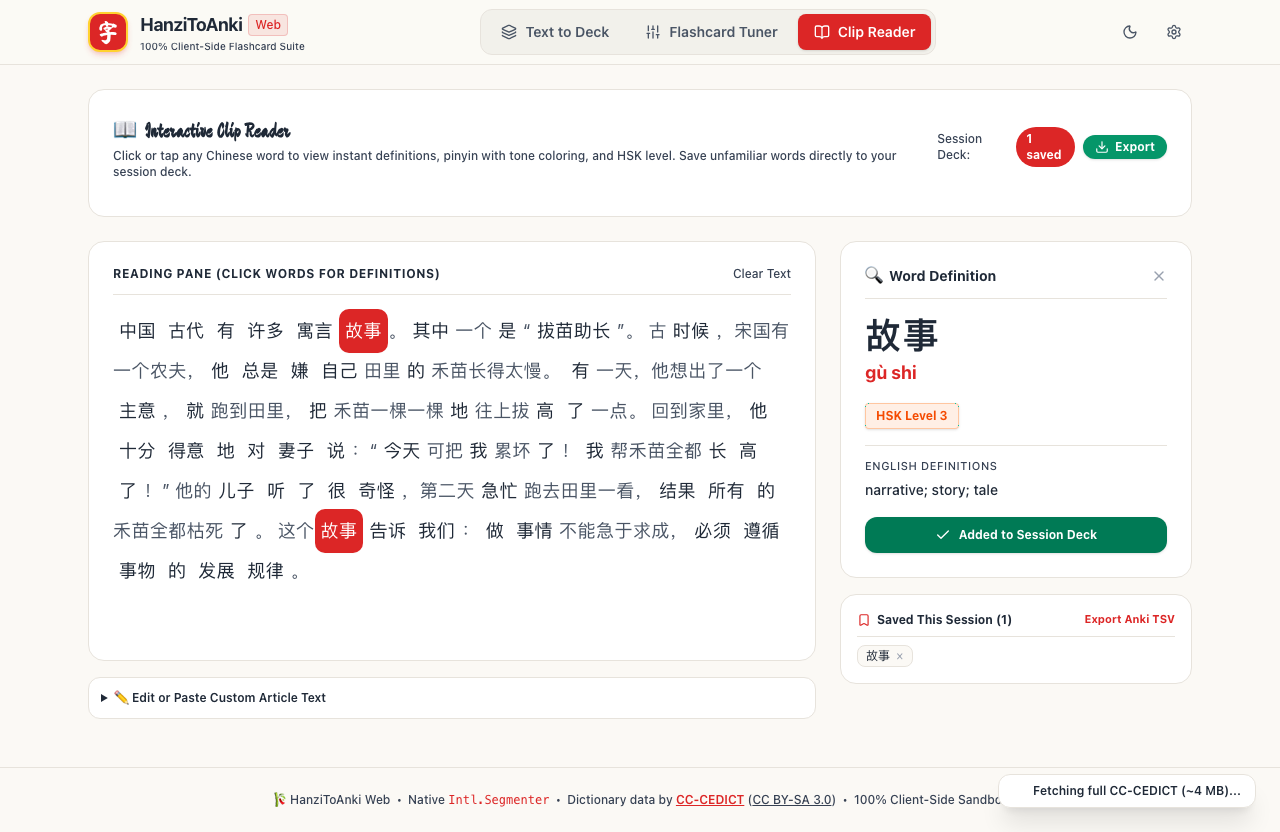
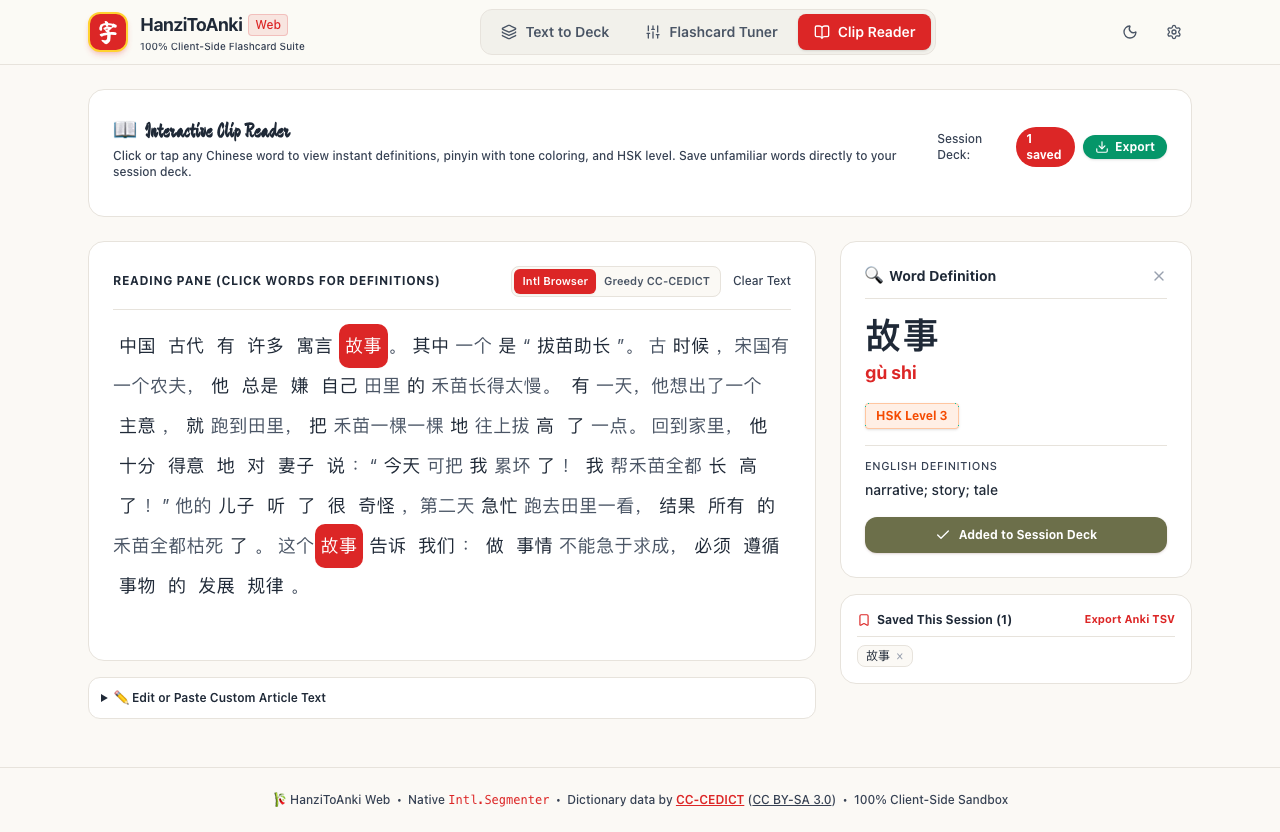
feat(web): add Jieba-like CC-CEDICT segmentation mode toggle in Clip Reader

Changed region(s): [[0.0938, 0.3125, 0.625, 0.7188], [0.6562, 0.5938, 0.9375, 0.6875], [0.7812, 0.9375, 0.9688, 1.0]]

diff --git a/web/src/lib/segmentation.ts b/web/src/lib/segmentation.ts
@@ -1,5 +1,7 @@
 import { type DictEntry, dictionaryService } from './dictionary';
 
+export type SegmentationMode = 'intl' | 'cedict-greedy';
+
 export interface SegmentedWord {
   text: string;
   isChinese: boolean;
@@ -18,12 +20,92 @@ export function isPureHanzi(str: string): boolean {
 }
 
 /**
- * Tokenizes text into words using native browser Intl.Segmenter.
+ * Bi-directional Maximum Matching (BiMM) segmenter using in-memory CC-CEDICT vocabulary.
+ * Produces compound/greedy words (Jieba-like) without large external binary dependencies.
+ */
+export function segmentCedictGreedy(text: string, maxWordLen = 8): string[] {
+  if (!text) return [];
+
+  // Break text into Hanzi and non-Hanzi segments (preserving punctuation, spaces, etc.)
+  const chunks = text.match(/[\u4e00-\u9fa5]+|[^\u4e00-\u9fa5]+/g) || [];
+  const result: string[] = [];
+
+  for (const chunk of chunks) {
+    if (!isHanzi(chunk)) {
+      result.push(chunk);
+      continue;
+    }
+
+    // Forward Maximum Matching (FMM)
+    const fmm: string[] = [];
+    let i = 0;
+    while (i < chunk.length) {
+      let matched = false;
+      for (let len = Math.min(maxWordLen, chunk.length - i); len > 1; len--) {
+        const sub = chunk.slice(i, i + len);
+        if (dictionaryService.lookup(sub)) {
+          fmm.push(sub);
+          i += len;
+          matched = true;
+          break;
+        }
+      }
+      if (!matched) {
+        fmm.push(chunk[i]);
+        i++;
+      }
+    }
+
+    // Reverse Maximum Matching (RMM)
+    const rmm: string[] = [];
+    let j = chunk.length;
+    while (j > 0) {
+      let matched = false;
+      for (let len = Math.min(maxWordLen, j); len > 1; len--) {
+        const sub = chunk.slice(j - len, j);
+        if (dictionaryService.lookup(sub)) {
+          rmm.unshift(sub);
+          j -= len;
+          matched = true;
+          break;
+        }
+      }
+      if (!matched) {
+        rmm.unshift(chunk[j - 1]);
+        j--;
+      }
+    }
+
+    // Disambiguation between FMM and RMM:
+    // 1. Prefer tokenization with fewer total tokens
+    // 2. If equal, prefer tokenization with fewer single-character tokens
+    if (fmm.length < rmm.length) {
+      result.push(...fmm);
+    } else if (rmm.length < fmm.length) {
+      result.push(...rmm);
+    } else {
+      const fmmSingles = fmm.filter((w) => w.length === 1).length;
+      const rmmSingles = rmm.filter((w) => w.length === 1).length;
+      if (rmmSingles < fmmSingles) {
+        result.push(...rmm);
+      } else {
+        result.push(...fmm);
+      }
+    }
+  }
+
+  return result;
+}
+
+/**
+ * Tokenizes text into words using either browser native Intl.Segmenter
+ * or dictionary-driven CC-CEDICT Bi-directional Maximum Matching (Jieba-like).
  * Matches CC-CEDICT definitions and HSK levels.
  */
 export function segmentText(
   text: string,
   options: {
+    mode?: SegmentationMode;
     deconstructWords?: boolean; // also include individual single characters of multi-char words
     excludeHskMax?: number; // exclude words with HSK <= excludeHskMax (e.g. exclude 1..3)
   } = {},
@@ -31,71 +113,59 @@ export function segmentText(
   if (!text) return [];
 
   const results: SegmentedWord[] = [];
+  const mode = options.mode ?? 'intl';
   const deconstruct = options.deconstructWords ?? false;
   const excludeMax = options.excludeHskMax ?? 0;
 
-  // Use native Intl.Segmenter if available, otherwise regex fallback
-  if (typeof Intl !== 'undefined' && 'Segmenter' in Intl) {
+  let rawTokens: string[] = [];
+
+  if (mode === 'cedict-greedy') {
+    rawTokens = segmentCedictGreedy(text);
+  } else if (typeof Intl !== 'undefined' && 'Segmenter' in Intl) {
     const segmenter = new Intl.Segmenter('zh', { granularity: 'word' });
-    const segments = segmenter.segment(text);
+    rawTokens = Array.from(segmenter.segment(text)).map((s) => s.segment);
+  } else {
+    // Regex fallback
+    rawTokens = text.match(/[\u4e00-\u9fa5]+|[^\u4e00-\u9fa5\s]+/g) || [];
+  }
 
-    for (const seg of segments) {
-      const rawText = seg.segment.trim();
-      if (!rawText) continue;
+  for (const rawToken of rawTokens) {
+    const rawText = rawToken.trim();
+    if (!rawText) continue;
 
-      const isChinese = isHanzi(rawText);
-      const dictEntry = isChinese ? dictionaryService.lookup(rawText) : null;
-      const hskLevel = isChinese
-        ? dictEntry?.hskLevel || dictionaryService.getHskLevel(rawText)
-        : 0;
+    const isChinese = isHanzi(rawText);
+    const dictEntry = isChinese ? dictionaryService.lookup(rawText) : null;
+    const hskLevel = isChinese ? dictEntry?.hskLevel || dictionaryService.getHskLevel(rawText) : 0;
 
-      // Check HSK exclusion filter
-      if (isChinese && excludeMax > 0 && hskLevel > 0 && hskLevel <= excludeMax) {
-        continue;
-      }
+    // Check HSK exclusion filter
+    if (isChinese && excludeMax > 0 && hskLevel > 0 && hskLevel <= excludeMax) {
+      continue;
+    }
 
-      results.push({
-        text: rawText,
-        isChinese,
-        dictEntry,
-        hskLevel,
-      });
+    results.push({
+      text: rawText,
+      isChinese,
+      dictEntry,
+      hskLevel,
+    });
 
-      // Optionally break down multi-character words into sub-characters
-      if (deconstruct && isChinese && rawText.length > 1) {
-        for (const char of rawText) {
-          if (isPureHanzi(char)) {
-            const charEntry = dictionaryService.lookup(char);
-            const charHsk = charEntry?.hskLevel || dictionaryService.getHskLevel(char);
-            if (excludeMax > 0 && charHsk > 0 && charHsk <= excludeMax) {
-              continue;
-            }
-            results.push({
-              text: char,
-              isChinese: true,
-              dictEntry: charEntry,
-              hskLevel: charHsk,
-            });
+    // Optionally break down multi-character words into sub-characters
+    if (deconstruct && isChinese && rawText.length > 1) {
+      for (const char of rawText) {
+        if (isPureHanzi(char)) {
+          const charEntry = dictionaryService.lookup(char);
+          const charHsk = charEntry?.hskLevel || dictionaryService.getHskLevel(char);
+          if (excludeMax > 0 && charHsk > 0 && charHsk <= excludeMax) {
+            continue;
           }
+          results.push({
+            text: char,
+            isChinese: true,
+            dictEntry: charEntry,
+            hskLevel: charHsk,
+          });
         }
       }
-    }
-  } else {
-    // Basic regex fallback
-    const tokens = text.match(/[\u4e00-\u9fa5]+|[^\u4e00-\u9fa5\s]+/g) || [];
-    for (const token of tokens) {
-      const isChinese = isHanzi(token);
-      const dictEntry = isChinese ? dictionaryService.lookup(token) : null;
-      const hskLevel = isChinese ? dictEntry?.hskLevel || dictionaryService.getHskLevel(token) : 0;
-      if (isChinese && excludeMax > 0 && hskLevel > 0 && hskLevel <= excludeMax) {
-        continue;
-      }
-      results.push({
-        text: token,
-        isChinese,
-        dictEntry,
-        hskLevel,
-      });
     }
   }
 
@@ -106,47 +176,28 @@ export function segmentText(
  * Tokenizes text specifically for the interactive Reader view,
  * keeping punctuation, spacing, and newlines intact for rendering paragraphs.
  */
-export function tokenizeForReader(text: string): SegmentedWord[] {
+export function tokenizeForReader(text: string, mode: SegmentationMode = 'intl'): SegmentedWord[] {
   if (!text) return [];
 
-  const segmenter =
-    typeof Intl !== 'undefined' && 'Segmenter' in Intl
-      ? new Intl.Segmenter('zh', { granularity: 'word' })
-      : null;
+  let rawTokens: string[] = [];
 
-  if (segmenter) {
-    const segments = segmenter.segment(text);
-    const tokens: SegmentedWord[] = [];
-    for (const seg of segments) {
-      const segText = seg.segment;
-      const isChinese = isHanzi(segText);
-      const dictEntry = isChinese ? dictionaryService.lookup(segText) : null;
-      const hskLevel = isChinese
-        ? dictEntry?.hskLevel || dictionaryService.getHskLevel(segText)
-        : 0;
-
-      tokens.push({
-        text: segText,
-        isChinese,
-        dictEntry,
-        hskLevel,
-      });
-    }
-    return tokens;
+  if (mode === 'cedict-greedy') {
+    rawTokens = segmentCedictGreedy(text);
+  } else if (typeof Intl !== 'undefined' && 'Segmenter' in Intl) {
+    const segmenter = new Intl.Segmenter('zh', { granularity: 'word' });
+    rawTokens = Array.from(segmenter.segment(text)).map((s) => s.segment);
+  } else {
+    rawTokens = text.split(/([ \t\r\n]+|[\u4e00-\u9fa5]+|[^\u4e00-\u9fa5\s]+)/g).filter(Boolean);
   }
 
-  // Fallback
-  return text
-    .split(/([ \t\r\n]+|[\u4e00-\u9fa5]+|[^\u4e00-\u9fa5\s]+)/g)
-    .filter(Boolean)
-    .map((part) => {
-      const isChinese = isHanzi(part);
-      const dictEntry = isChinese ? dictionaryService.lookup(part) : null;
-      return {
-        text: part,
-        isChinese,
-        dictEntry,
-        hskLevel: isChinese ? dictEntry?.hskLevel || dictionaryService.getHskLevel(part) : 0,
-      };
-    });
+  return rawTokens.map((part) => {
+    const isChinese = isHanzi(part);
+    const dictEntry = isChinese ? dictionaryService.lookup(part) : null;
+    return {
+      text: part,
+      isChinese,
+      dictEntry,
+      hskLevel: isChinese ? dictEntry?.hskLevel || dictionaryService.getHskLevel(part) : 0,
+    };
+  });
 }

diff --git a/web/src/components/ClipboardReader.tsx b/web/src/components/ClipboardReader.tsx
@@ -5,7 +5,7 @@ import { useMemo, useState } from 'react';
 import { downloadFile, generateAnkiTsv } from '../lib/ankiExporter';
 import type { DictEntry } from '../lib/dictionary';
 import { getHskBadgeClasses } from '../lib/hskHelper';
-import { tokenizeForReader } from '../lib/segmentation';
+import { type SegmentationMode, tokenizeForReader } from '../lib/segmentation';
 import { getToneColor, getToneNumber, type TonePalette } from '../lib/toneHelper';
 
 interface ClipboardReaderProps {
@@ -25,14 +25,15 @@ export const ClipboardReader: React.FC<ClipboardReaderProps> = ({
   colorHanziGlyphs,
 }) => {
   const [inputText, setInputText] = useState<string>(DEFAULT_ARTICLE);
+  const [segmentationMode, setSegmentationMode] = useState<SegmentationMode>('intl');
   const [selectedWord, setSelectedWord] = useState<DictEntry | null>(null);
   const [sessionDeck, setSessionDeck] = useState<DictEntry[]>([]);
   const [_copied, _setCopied] = useState<boolean>(false);
 
   // Tokenize text for reading
   const tokens = useMemo(() => {
-    return tokenizeForReader(inputText);
-  }, [inputText]);
+    return tokenizeForReader(inputText, segmentationMode);
+  }, [inputText, segmentationMode]);
 
   // Check if a word is in session deck
   const isInSessionDeck = (word: DictEntry | null) => {
@@ -100,16 +101,50 @@ export const ClipboardReader: React.FC<ClipboardReaderProps> = ({
         {/* Reading Article Pane */}
         <div className="lg:col-span-2 space-y-4">
           <div className="bg-paper-card dark:bg-paper-cardDark border border-paper-border dark:border-paper-borderDark rounded-2xl p-6 shadow-soft min-h-[420px]">
-            <div className="flex items-center justify-between pb-3 mb-4 border-b border-paper-border dark:border-paper-borderDark">
+            <div className="flex flex-wrap items-center justify-between gap-2 pb-3 mb-4 border-b border-paper-border dark:border-paper-borderDark">
               <span className="text-xs font-bold uppercase tracking-wider text-chinese-ink dark:text-gray-300">
                 Reading Pane (Click words for definitions)
               </span>
-              <button
-                onClick={() => setInputText('')}
-                className="text-xs text-gray-700 dark:text-gray-400 hover:text-chinese-red transition font-medium"
-              >
-                Clear Text
-              </button>
+
+              <div className="flex items-center gap-3">
+                {/* Segmentation Mode Toggle */}
+                <fieldset
+                  className="inline-flex items-center bg-paper-light dark:bg-paper-dark border border-paper-border dark:border-paper-borderDark rounded-lg p-0.5"
+                  aria-label="Segmentation Engine"
+                >
+                  <button
+                    type="button"
+                    onClick={() => setSegmentationMode('intl')}
+                    className={`px-2 py-1 text-[11px] font-semibold rounded-md transition ${
+                      segmentationMode === 'intl'
+                        ? 'bg-chinese-red text-white shadow-xs'
+                        : 'text-gray-600 dark:text-gray-400 hover:text-chinese-ink dark:hover:text-white'
+                    }`}
+                    title="Intl.Segmenter: Native browser morphological segmentation"
+                  >
+                    Intl Browser
+                  </button>
+                  <button
+                    type="button"
+                    onClick={() => setSegmentationMode('cedict-greedy')}
+                    className={`px-2 py-1 text-[11px] font-semibold rounded-md transition ${
+                      segmentationMode === 'cedict-greedy'
+                        ? 'bg-chinese-red text-white shadow-xs'
+                        : 'text-gray-600 dark:text-gray-400 hover:text-chinese-ink dark:hover:text-white'
+                    }`}
+                    title="Greedy CC-CEDICT: Dictionary compound matching (Jieba-like)"
+                  >
+                    Greedy CC-CEDICT
+                  </button>
+                </fieldset>
+
+                <button
+                  onClick={() => setInputText('')}
+                  className="text-xs text-gray-700 dark:text-gray-400 hover:text-chinese-red transition font-medium"
+                >
+                  Clear Text
+                </button>
+              </div>
             </div>
 
             {/* Interactive Tokenized Text */}

diff --git a/web/tests/e2e.spec.ts b/web/tests/e2e.spec.ts
@@ -87,6 +87,16 @@ test.describe('HanziToAnki Web End-to-End User Stories', () => {
     await page.getByRole('button', { name: 'Clip Reader' }).click();
     await expect(page.getByText('Interactive Clip Reader')).toBeVisible();
 
+    // Verify segmentation engine controls are visible
+    const intlBtn = page.getByRole('button', { name: 'Intl Browser' });
+    const greedyBtn = page.getByRole('button', { name: 'Greedy CC-CEDICT' });
+    await expect(intlBtn).toBeVisible();
+    await expect(greedyBtn).toBeVisible();
+
+    // Toggle to Greedy CC-CEDICT mode and verify segmentation remains responsive
+    await greedyBtn.click();
+    await expect(greedyBtn).toHaveClass(/bg-chinese-red/);
+
     // Click on the Chinese word "故事" (story) inside the reading pane
     const wordToken = page
       .locator('span')
@@ -99,6 +109,10 @@ test.describe('HanziToAnki Web End-to-End User Stories', () => {
     await expect(page.getByText('Word Definition')).toBeVisible();
     await expect(page.getByText('gù shi')).toBeVisible();
     await expect(page.getByText('story')).toBeVisible();
+
+    // Switch back to Intl Browser mode
+    await intlBtn.click();
+    await expect(intlBtn).toHaveClass(/bg-chinese-red/);
 
     // Click "Add to Session Deck"
     const addBtn = page.getByRole('button', { name: 'Add to Session Deck' });
